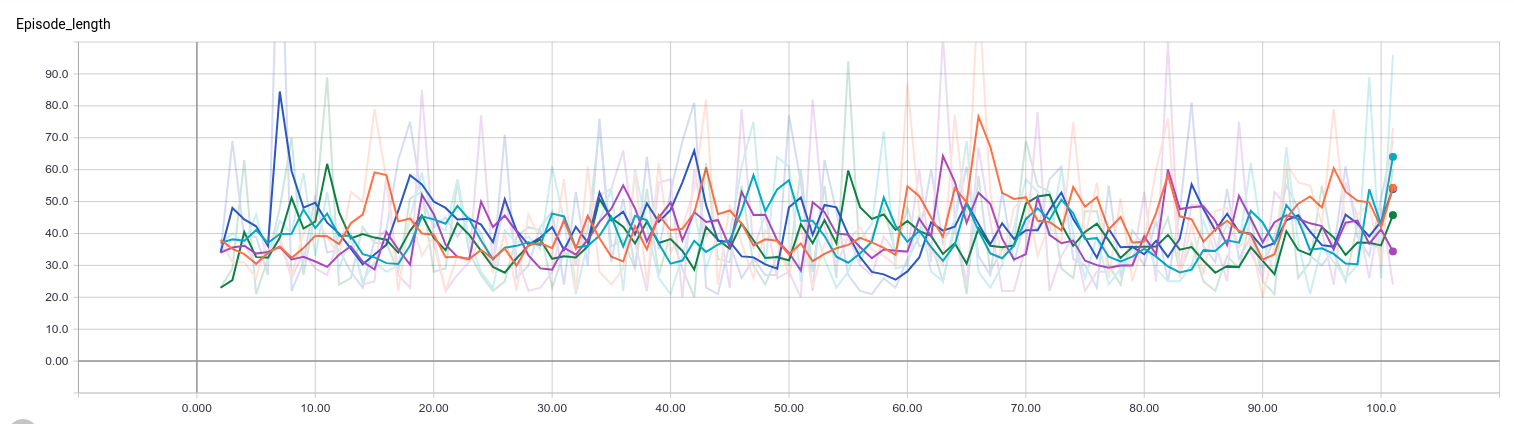
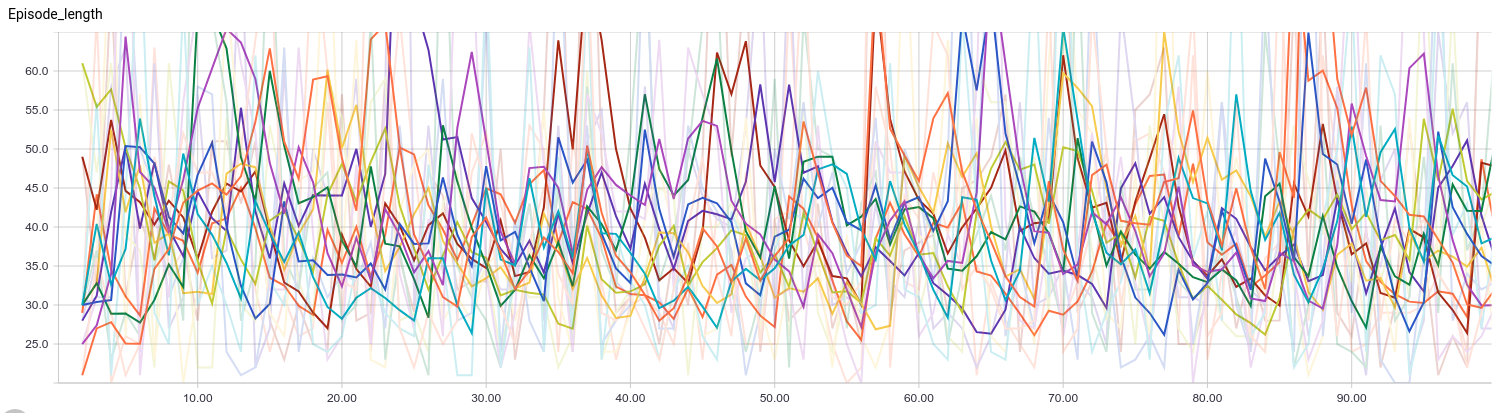
nearly done with first rev

diff --git a/capstone_report.tex b/capstone_report.tex
@@ -145,7 +145,7 @@ Initially, I created a bonus system to reward states with the pole upright and t
 
 \begin{figure}[htbp]
 \begin{center}
-\includegraphics[scale=0.6]{actor_net.png}
+\includegraphics[scale=0.66]{actor_net.png}
 \caption{Graph of my finalized actor network architecture. Input state is our observed state for that timestep. fc1 is a fully-connected layer with a ReLu activation. Score is a second fully connected layer. Finally, the scores are given to a sigmoid activation layer which outputs a single value between 0 and 1. This is the probability of choosing ``push right" action at that timestep.}
 \label{actor_net}
 \end{center}
@@ -154,49 +154,23 @@ Initially, I created a bonus system to reward states with the pole upright and t
 
 
 
-
-more complicated
-
-less complicated. 
-
-
-everything that used dropout crashed to 10 ts, so I removed that as a param.
-
-new loss function
-
-cross ent
-
-new rewards
-
-experience replay
-
-gradient buffers
-
-softmax of two probabilties --> one probability 
-
-
-overnight run with actor critic
-
-
 \subsection*{Refinement}
 %In this section, you will need to discuss the process of improvement you made upon the algorithms and techniques you used in your implementation. For example, adjusting parameters for certain models to acquire improved solutions would fall under the refinement category. Your initial and final solutions should be reported, as well as any significant intermediate results as necessary. Questions to ask yourself when writing this section:
 %- _Has an initial solution been found and clearly reported?_
 %- _Is the process of improvement clearly documented, such as what techniques were used?_
 %- _Are intermediate and final solutions clearly reported as the process is improved?_
-I finally got a model which trained, but it took 2000 iterations to solve the game.
 
+I had a very hard time getting to the point where any of my models would train. At first, my intuition was to add more nodes and layers to my model and let it train for more iterations in the hopes that a larger network would be able to find a solution to the problem. At one point, I let the actor-critic model train overnight on my GPU with over 200,000 episodes, but it never converged to a solution.
+
+After that, I got rid of the critic and worked on the actor. I tried more layers, fewer layers, adding biases, removing biases, different activation functions, different weight initalizations, different optimizers, dropout layers, different learning rates, and nothing seemed to work.
+
+Finally, I found a policy gradient implementation which solved CartPole on Github. I took it and progressively changed my hyperparameters and network architecture to match theirs. It still did not train. Finally, I found the two lines of code which broke training. One was my weights initialization, which was using truncated normals. As soon as I changed it to an xavier intialization, my model started to train successfully. I was able to reproduce the problem reliably simply by switching the weights initialization back and forth between xavier and truncated normals.
+
+With my model finally training, I started optimizing the parameters and architecture. I decided to try to find the model which solved the game in as few episodes as possible. The original implementation took 2000 episodes to converge. I created a series of nested for loops to do a large parameter sweep of possible models to rule out certain architectures. 
+
+Predictably, I found that the following things slowed down training time: using dropout layers, gradient batches, extra layers, and lower learning rates. As I iteratively reduced the scope of my parameter space scope, my models trained faster and faster, and I could reduce the number of episodes per model. Finally, I found a model which could reliably get a perfect score in less than 30 episodes, and sometimes as low as 13 episodes (discussed in the Model Evaluation section).
 
 Tensorboard was invaluable. It allowed easy comparison across multiple models. By the end, I compared dozens of models before selecting the best one. 
-
-I wanted to see how fast my model could converge to a perfect policy.
-
-However, while these find the game quickly, the combination of a high learning rate and a noisy reward signal results in inconsitent results. Sometimes we get a perfect score in as little as 13 trials, but sometimes it takes over 100 episodes to do so using the same exact model parameters. 
-
-parameter sweep
-
-adding layers
-
-as models got better, reduced number of episodes
 
 
 \section{Results}
@@ -210,48 +184,68 @@ as models got better, reduced number of episodes
 %- _Can results found from the model be trusted?_
 
 \subsubsection*{Random Policy}
-Each episode lasted on average about 
+
+The random policy had a high variance in performance, with episodes lasting between 10 and 40 timesteps (Figure \ref{rand_ep_length}).  The average episode length is approximately 20 timesteps. Likewise, the distribution of thetas has a high spread (Figure \ref{rand_thetas}). The distributions do not change over time, which is expected since this policy does not learn. The clustering of values near zero is expected because the game is instantiated with the pole upright, and because episodes tend to last a very short time.
+
 \begin{figure}[htbp]
 \begin{center}
 \includegraphics[width=\linewidth]{rand_ep_length.png}
-\caption[]{}
+\caption{Average timesteps per episode for random policy. The x-axis represents the episode number and the y-axis is the number of timesteps before the episode ended. The different colors represent different trials. As expected, the agent does not improve over time.}
 \label{rand_ep_length}
 \end{center}
 \end{figure}
- The distribution of thetas 
 
 \begin{figure}[htbp]
 \begin{center}
 \includegraphics[width=\linewidth]{rand_thetas.png}
-\caption{Distribution of thetas for random policy}
-\label{rand_ep_length}
+\caption{Histogram of thetas for random policy. The x-axis represents the angle in radians, with 0 being vertical. The height represents the frequency which that angle was observed. The depth represents the episode number, with histograms near the top being early episodes and the ones at the forefront being the final episodes.}
+\label{rand_thetas}
 \end{center}
 \end{figure}
 
 \subsubsection*{Contrarian Policy}
 
-Each episode lasted on average about 
+The average episode length is approximately 45 timesteps, which is as more than twice as good as taking random actions (Figure \ref{pg_episodes}). As expected, the agent does not improve over time.  Qualitatively, the tails of the theta distributions (Figure \ref{contrarian_thetas}) are slightly smaller than the random agent. The distributions do not change over time, which is expected since this policy does not learn. 
+
 \begin{figure}[htbp]
 \begin{center}
 \includegraphics[width=\linewidth]{contrarian_lengths.png}
-\caption{}
+\caption{Average timesteps per episode for the contrarian policy. The different colors represent different trials. The x-axis represents the episode number and the y-axis is the number of timesteps before the episode ended. }
 \label{contrarian_lengths}
 \end{center}
 \end{figure}
 
-The distribution of thetas 
-
 \begin{figure}[htbp]
 \begin{center}
 \includegraphics[width=\linewidth]{contrarian_thetas.png}
-\caption{Distribution of thetas for contrarian policy}
+\caption{Histogram of thetas for contrarian policy. The x-axis represents the angle in radians, with 0 being vertical. The height represents the frequency which that angle was observed. The depth represents the episode number, with histograms near the top being early episodes and the ones at the forefront being the final episodes.}
 \label{contrarian_thetas}
 \end{center}
 \end{figure}
 
 \subsubsection*{Policy Gradient}
 
-\subsection*{Justification}
+The actor usually plays a perfect game of 200 timesteps within 35 episodes (Figure \ref{pg_episodes}), which is substantially better than the random actor's lifespan of 20 timesteps. Sometimes, it plays a perfect game in as little as 13 episodes. On the other hand, sometimes it takes over 100 episodes to do so using the same exact model parameters (see the dark blue trace).
+
+However, while these find the game quickly, the combination of a high learning rate and a noisy reward signal results in inconsitent results.
+
+\begin{figure}[htbp]
+\begin{center}
+\includegraphics[width=\linewidth]{pg_episodes.png}
+\caption{Episode lengths for the final policy gradient model.  The x-axis represents the episode number and the y-axis is the number of timesteps before the episode ended. The different colors represent different trials.  }
+\label{pg_episodes}
+\end{center}
+\end{figure}
+
+\begin{figure}[htbp]
+\begin{center}
+\includegraphics[width=\linewidth]{pg_thetas.png}
+\caption{Histogram of thetas for policy gradient. The x-axis represents the angle in radians, with 0 being vertical. The height represents the frequency which that angle was observed. The depth represents the episode number, with histograms near the top being early episodes and the ones at the forefront being the final episodes.}
+\label{pg_thetas}
+\end{center}
+\end{figure}
+
+%subsection*{Justification}
 %In this section, your model’s final solution and its results should be compared to the benchmark you established earlier in the project using some type of statistical analysis. You should also justify whether these results and the solution are significant enough to have solved the problem posed in the project. Questions to ask yourself when writing this section:
 %- _Are the final results found stronger than the benchmark result reported earlier?_
 %- _Have you thoroughly analyzed and discussed the final solution?_
@@ -269,29 +263,40 @@ The distribution of thetas
 %
 If I let it run long enough, it lowers in score. That's because the reward function penalizes things near the end, even if doing well. This is good for fast training, but bad once we have converged.
 
-Prone to catastrophic colapse.
+
+I selected a trial where the model failed to train. I looked at the istribution of activations and weights over time, and it was clear that something was wrong (Figure \ref{pg_stuck}). The outputs tended to be zeros or ones, indicating that the units in the network had catastrophically converged to zeros, becoming impossible to change with multiplication. These ``dead models" happened roughly 15\% of the time, which is to be expected with our aggressive learning rate and lack of batching.
+ 
+
+\begin{figure}[htbp]
+\begin{center}
+\includegraphics[width=\linewidth]{pg_stuck.png}
+\caption{Activation over time of the actor network for each episode in the policy gradient. Note, unlike the figures above, these are not histograms-- the values are in chronologically ordered. The x-axis represents the run-time of a given episode, the height represents the output value of the sigmoid function. The depth represents the episode number, with histograms near the top being early episodes and the ones at the forefront being the final episodes. Values of 0 are a correspond to a high probability of pushing the cart to the left, and values near 1 correspond to a high probability of pushing the cart to the right.}
+\label{pg_stuck}
+\end{center}
+\end{figure}
+
 \subsection*{Reflection}
 %In this section, you will summarize the entire end-to-end problem solution and discuss one or two particular aspects of the project you found interesting or difficult. You are expected to reflect on the project as a whole to show that you have a firm understanding of the entire process employed in your work. Questions to ask yourself when writing this section:
 %- _Have you thoroughly summarized the entire process you used for this project?_
 %- _Were there any interesting aspects of the project?_
 %- _Were there any difficult aspects of the project?_
 %- _Does the final model and solution fit your expectations for the problem, and should it be used in a general setting to solve these types of problems?_
-start simple
+If I had to give myself advice, it would be to start with a simple network architecture and build on it. I started with an actor-critic model, which was too ambitious and much harder to diagnose with all the moving parts. 
 
-tensorboard is great
-
-save snapshot after perfect performance
-
-
-
+I wish I would have started using Tensorboard summaries sooner. They proved invaluable in troubleshooting, once I figured out how the summary operations worked.
 
 \subsection*{Improvement}
 %In this section, you will need to provide discussion as to how one aspect of the implementation you designed could be improved. As an example, consider ways your implementation can be made more general, and what would need to be modified. You do not need to make this improvement, but the potential solutions resulting from these changes are considered and compared/contrasted to your current solution. Questions to ask yourself when writing this section:
 %- _Are there further improvements that could be made on the algorithms or techniques you used in this project?_
 %- _Were there algorithms or techniques you researched that you did not know how to implement, but would consider using if you knew how?_
 %- _If you used your final solution as the new benchmark, do you think an even better solution exists?_
-%
-%-----------
+
+In terms of converging in fewer episodes, I doubt there are many more gains than I can make while not imposing biases using prior knowledge. I would take a trial which has converged to perfect gameplay and save a snapshot of the network parameters, and stop training.
+
+If adding prior knowledge into the model was allowed, I would add a bonus for low theta values to encourage the gradients to reward actions which lead to those states.
+
+If I wanted a more stable algorithm, I would stop mean subtracting the discounted rewards, which always punishes actions taken at the end of an episode, even if they were good actions. This is more important at the end of training, because episodes where the model performs optimally and reaches 200 timesteps would still get actions at the end penalized, and the model becomes ``untrained". 
+
 %
 %**Before submitting, ask yourself. . .**
 %
